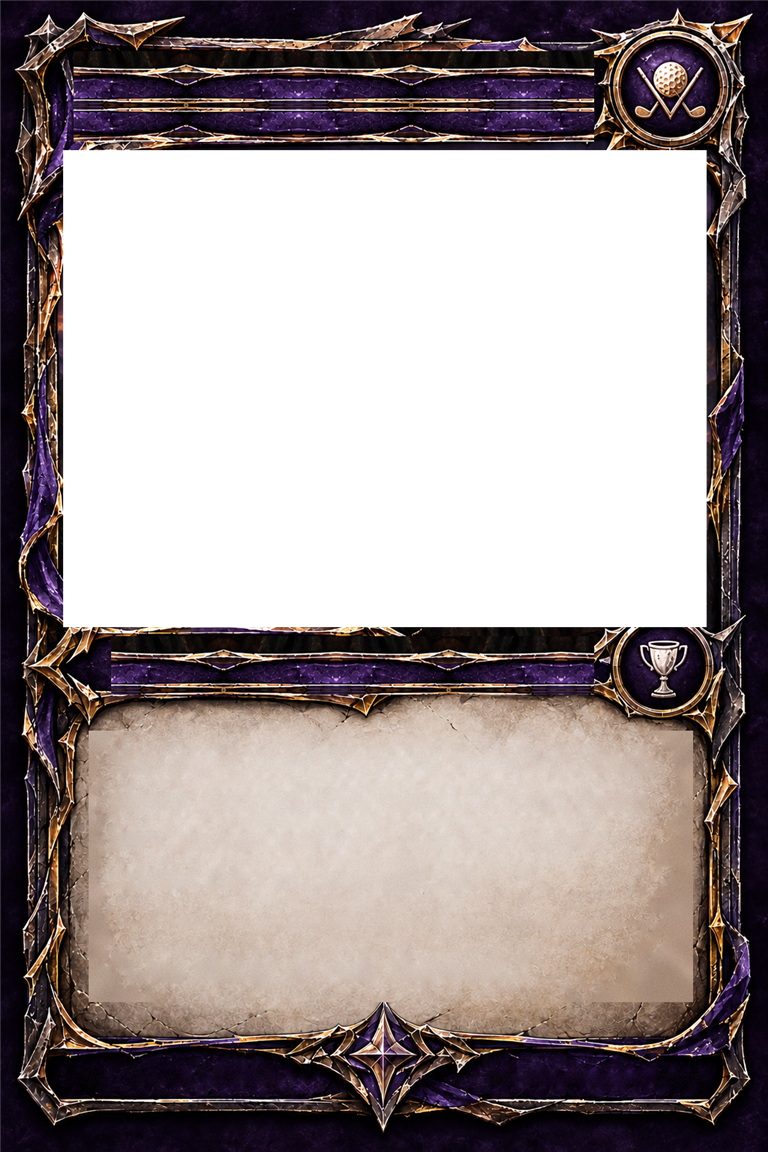
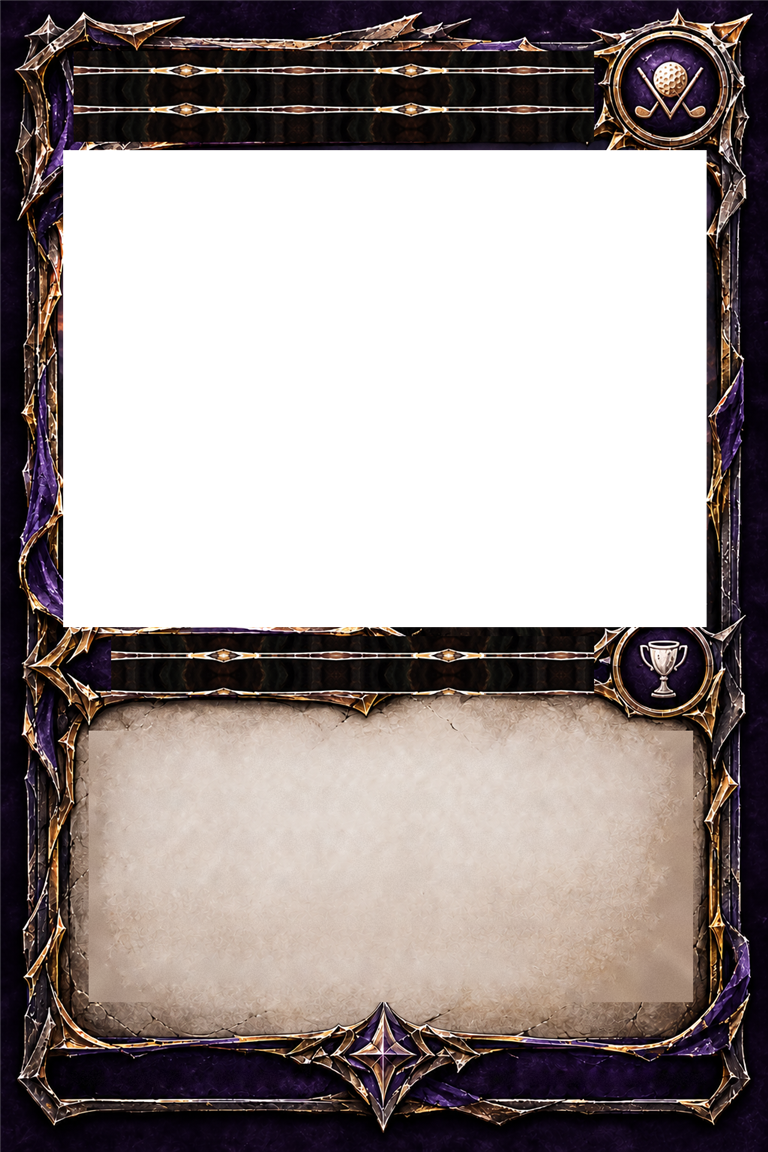
Frames: plain bar texture behind titles; metallic lettering

Changed region(s): [[0.0938, 0.0312, 0.7812, 0.125], [0.125, 0.5625, 0.7812, 0.625]]

diff --git a/index.html b/index.html
@@ -169,11 +169,15 @@
   .mc .mc-art{left:8.2%;top:13%;width:83.8%;height:41.4%;object-fit:cover;display:flex;align-items:center;justify-content:center;background:radial-gradient(circle at 50% 40%,#2c2c2c,#0b0b0b 75%)}
   .mc .mc-art .crest{width:50%;height:50%;opacity:.85}
   .mc .mc-frame{inset:0;width:100%;height:100%;pointer-events:none}
-  .mc .mc-title{left:9.6%;top:4.4%;width:67.6%;height:7.9%;display:flex;align-items:center;padding:0 2cqw;font-family:Marcellus,Cinzel,serif;font-size:6.6cqw;line-height:1;white-space:nowrap;overflow:hidden;
-    color:var(--tf);-webkit-text-stroke:.12cqw rgba(0,0,0,.6);text-shadow:0 .25cqw .4cqw rgba(0,0,0,.9),0 0 1.4cqw rgba(0,0,0,.6);letter-spacing:.05cqw}
-  .mc .mc-type{left:14.6%;top:55.3%;width:62.4%;height:4.8%;display:flex;align-items:center;padding:0 2cqw;font-family:Marcellus,Cinzel,serif;text-transform:uppercase;font-size:4.3cqw;letter-spacing:.25cqw;
-    color:var(--tf);-webkit-text-stroke:.1cqw rgba(0,0,0,.6);text-shadow:0 .2cqw .4cqw rgba(0,0,0,.9);white-space:nowrap;overflow:hidden}
-  .mc .mc-text{left:12.6%;top:64%;width:76.2%;height:22.4%;overflow:hidden;color:var(--ink);font-size:4.6cqw;line-height:1.22;font-weight:500;padding:0 .4cqw}
+  /* metallic lettering: gradient fill + dark edge + drop shadow (filter, not text-shadow, so it sits behind the clipped fill) */
+  .mc .mc-title,.mc .mc-type{display:flex;align-items:center;padding:0 2cqw;font-family:Marcellus,Cinzel,serif;white-space:nowrap;overflow:hidden;line-height:1;font-weight:700;
+    background:linear-gradient(180deg,#fff 0%,var(--tf) 38%,var(--tf2) 55%,#fff 78%,var(--tf) 100%);-webkit-background-clip:text;background-clip:text;color:transparent;
+    -webkit-text-stroke:.18cqw rgba(0,0,0,.55);filter:drop-shadow(0 .25cqw .25cqw rgba(0,0,0,1)) drop-shadow(0 0 1.2cqw rgba(0,0,0,.7))}
+  .mc .mc-title{left:9.6%;top:4.4%;width:67.6%;height:7.9%;font-size:7cqw;letter-spacing:.08cqw}
+  .mc .mc-type{left:14.6%;top:55.3%;width:62.4%;height:4.8%;text-transform:uppercase;font-size:4.4cqw;letter-spacing:.3cqw}
+  .mc{--tf2:#8a8a8a}
+  .mc.tier-rare{--tf2:#8fa6cf} .mc.tier-legendary{--tf2:#b39ad8} .mc.tier-mythic{--tf2:#e0a25a}
+  .mc .mc-text{left:12.6%;top:64%;width:76.2%;height:22.4%;overflow:hidden;color:var(--ink);font-size:4.6cqw;line-height:1.22;font-weight:500;padding:0 .4cqw;white-space:normal;overflow-wrap:anywhere}
   .mc .mc-text p{margin:0}
   .mc .mc-div{display:flex;align-items:center;gap:1.2cqw;margin:1.6cqw 0;color:var(--ts)}
   .mc .mc-div::before,.mc .mc-div::after{content:"";flex:1;height:1px;background:currentColor;opacity:.7}
@@ -535,7 +539,7 @@
 (() => {
   // Bump on every push. GitHub Pages caches for 10 minutes; on load we peek at the live
   // copy and hop to a cache-busted URL if a newer build is out, so nobody runs stale code.
-  const BUILD = '2026-09-17-2';
+  const BUILD = '2026-09-17-3';
   fetch(location.pathname + '?cb=' + Date.now(), { cache: 'no-store' }).then(r => r.text()).then(html => {
     const m = html.match(/const BUILD = '([^']+)'/);
     if (m && m[1] !== BUILD && !location.search.includes('v=' + m[1])) location.replace(location.pathname + '?v=' + m[1] + location.hash);

diff --git a/CLAUDE.md b/CLAUDE.md
@@ -16,7 +16,8 @@ Static one-page site (GitHub Pages) + Supabase (Postgres) backend for GP's fanta
 - Default lock: Thursday 07:00 America/New_York. Event selection/multipliers follow GP's "Fantasy Golf 2026" Google Sheet, applied to the 2027 PGA Tour schedule (announced Aug 26 2026). The 2026 season was over before launch, so the site ships on season 2027.
 - Zurich Classic (two-man team event) is deliberately a normal single pick at 2× — GP's call, Sep 2026.
 - Autocomplete (`list_golfers()`) = seed table ∪ golfers from locked tournaments. `submit_pick` must NOT write to `golfers` — that leaked pre-lock picks.
-- **Cards** (Sep 2026): the commissioner deals TCG-style cards (`cards` table) to owners; only the owner sees their hand (`my_cards`), plays one per tournament before lock (`play_card`/`unplay_card`), and plays reveal at lock (`tournament_cards`). **All points flow through `scored_points(tournament_id)`** — winnings × multiplier, then cards applied in `played_at` order: `multiply {x}`, `flat {amount}`, `duel` (higher raw winnings → ×2 base, loser 0; tie no-op), `steal {pct}`, `swap`, `shield` (nullifies duel/steal/swap/curse aimed at the holder), `mulligan` (lets `submit_pick` reuse a golfer that week), `custom` (text only — the commissioner rules on it via the per-pick **adjustment**: `picks.adjust` + `adjust_note`, set from Enter Results through `admin_set_winnings(..., p_adjust, p_adjust_note)`, applied by `scored_points` after every card and noted as "Commissioner: +$X (why)"), `fellowship {amount}` (partner card — both owners must play it on each other; +amount each, both $0 if either has $0 winnings = missed cut; resolved once per pair via `paired[]`), `curse {golfer, pct}` (In the Stocks: victim's points × (1+pct/100); if `golfer` set, `submit_pick` rejects any other pick for the victim — and skips the no-mulligan rule for the forced golfer — and scoring zeroes them if they didn't comply; the victim alone is warned via `my_constraints()` on the pick form, without learning who played it). `tournament_board`/`standings`/`season_picks`/`my_picks` all read from it and carry a `note` explaining the math. Adding an effect = add it to the `check` constraint, the `case` in `scored_points`, and `EFFECTS` in index.html (label/param/target/summary). Card art is stored as a data URL resized in the browser (`dcImage` handler; 640px for artwork, 760px for full cards) — no storage bucket. `full_card` (on `cards` and `card_library`): the league's real cards are finished images (title/type/text baked in, portrait ~2:3) — render them as-is (`.tcg.full`), auto-detected on upload when height/width > 1.25. The built-in frame for text-only cards deliberately mimics those printed cards: near-black body, double gold border with corner scroll SVGs (`--curl`), parchment panels with feTurbulence grain (`--noise`), EB Garamond; all frame sizes are in `cqw` (`container-type:inline-size`) with grid rows 7/46/6/31 measured off the paintings, so cards scale like prints and `fitCards()` only shrinks text that overflows. `EFFECTS[x].params` is an array of `{k,l,t}` inputs rendered by `dcRenderParams`; `EFFECTS[x].target` is the label for the owner it's played on (Opponent/Victim/Partner) or absent.
+- **Cards** (Sep 2026): the commissioner deals TCG-style cards (`cards` table) to owners; only the owner sees their hand (`my_cards`), plays one per tournament before lock (`play_card`/`unplay_card`), and plays reveal at lock (`tournament_cards`). **All points flow through `scored_points(tournament_id)`** — winnings × multiplier, then cards applied in `played_at` order: `multiply {x}`, `flat {amount}`, `duel` (higher raw winnings → ×2 base, loser 0; tie no-op), `steal {pct}`, `swap`, `shield` (nullifies duel/steal/swap/curse aimed at the holder), `mulligan` (lets `submit_pick` reuse a golfer that week), `custom` (text only — the commissioner rules on it via the per-pick **adjustment**: `picks.adjust` + `adjust_note`, set from Enter Results through `admin_set_winnings(..., p_adjust, p_adjust_note)`, applied by `scored_points` after every card and noted as "Commissioner: +$X (why)"), `fellowship {amount}` (partner card — both owners must play it on each other; +amount each, both $0 if either has $0 winnings = missed cut; resolved once per pair via `paired[]`), `curse {golfer, pct}` (In the Stocks: victim's points × (1+pct/100); if `golfer` set, `submit_pick` rejects any other pick for the victim — and skips the no-mulligan rule for the forced golfer — and scoring zeroes them if they didn't comply; the victim alone is warned via `my_constraints()` on the pick form, without learning who played it). `tournament_board`/`standings`/`season_picks`/`my_picks` all read from it and carry a `note` explaining the math. Adding an effect = add it to the `check` constraint, the `case` in `scored_points`, and `EFFECTS` in index.html (label/param/target/summary). Card art is stored as a data URL resized in the browser (`dcImage` handler; 640px for artwork, 760px for full cards) — no storage bucket.
+- **Painted tier frames (Sep 17 2026, the current card look):** `frames/{common,rare,legendary,mythic}.png` (768×1152, alpha) are George's AI-generated frames with the art window knocked out (orig-px 84–942 × 200–836) and the baked text erased (bars re-tiled from a plain patch of the type bar at 630,851 150×26; parchment/collector text removed by a luminance-mask inpaint; divider diamond spot-filled). Source PNGs + the processing pipeline live in `fantasy-golf-site\cards\` (outside the repo); the C# `FrameTool` (Load/Retile/Inpaint/Knockout/Scale via Add-Type) is in this conversation's history — redo from `cards/frame_*.png` if a frame needs re-cutting. The `.mc` renderer in `tcgHTML` layers `.mc-art` (8.2%/13%/83.8%/41.4%), `.mc-frame`, `.mc-title` (Marcellus, metallic gradient text), `.mc-type`, `.mc-text` (EB Garamond; ✦ divider before flavor), `.mc-coll` collector line (`MGL · <library id> · TIER` / `The Mattlemore Golf League`). Legendary/Mythic get `.holo` sheen + cursor tilt (`data-tilt`). The older CSS-only `.tcg` frame is now unused except `.tcg.full` for finished full-card images. `full_card` (on `cards` and `card_library`): the league's real cards are finished images (title/type/text baked in, portrait ~2:3) — render them as-is (`.tcg.full`), auto-detected on upload when height/width > 1.25. The built-in frame for text-only cards deliberately mimics those printed cards: near-black body, double gold border with corner scroll SVGs (`--curl`), parchment panels with feTurbulence grain (`--noise`), EB Garamond; all frame sizes are in `cqw` (`container-type:inline-size`) with grid rows 7/46/6/31 measured off the paintings, so cards scale like prints and `fitCards()` only shrinks text that overflows. `EFFECTS[x].params` is an array of `{k,l,t}` inputs rendered by `dcRenderParams`; `EFFECTS[x].target` is the label for the owner it's played on (Opponent/Victim/Partner) or absent.
 - **Tiers** (Sep 16 2026): `tier` on `card_library` and `cards` — common < rare < legendary < mythic (George's ladder, revised Sep 17 2026: grey / blue / **purple** / **orange**; holo on legendary + mythic). Data + designer selector + badge in the card strip + Discord embed colour are live; the per-tier *frame* visuals are pending George's sign-off on the MTG-style mockup (`scratchpad/card-frame-v3.html`). `TIERS` in index.html mirrors the check constraint.
 - **Library filters**: search (name/kind/rules/flavor), tier, effect, status (active / never dealt / dealt / in hands / retired / all) — pure client-side over `libRows` (`libFilter`/`renderLibrary`).
 - **Card library** (`card_library`, George: "build up a huge pool"): the season-independent pool of designs. Dealt `cards` rows carry `library_id`; `admin_deal_from_library` copies the design into a new card. Commissioner UI: "Card library" grid (deal to owner / edit / retire-restore, with dealt counts) above the "Design a card" form; dealing a new design ALWAYS saves it to the library first (George: "all cards should appear in the card library"; the old opt-out checkbox is gone), `dcLibId` marks edit mode. `admin_deal_card` (library-less deal) is kept in SQL but the UI no longer calls it. Retire hides from the pool but never deletes. `admin_save_library_card` with null image keeps existing art.
